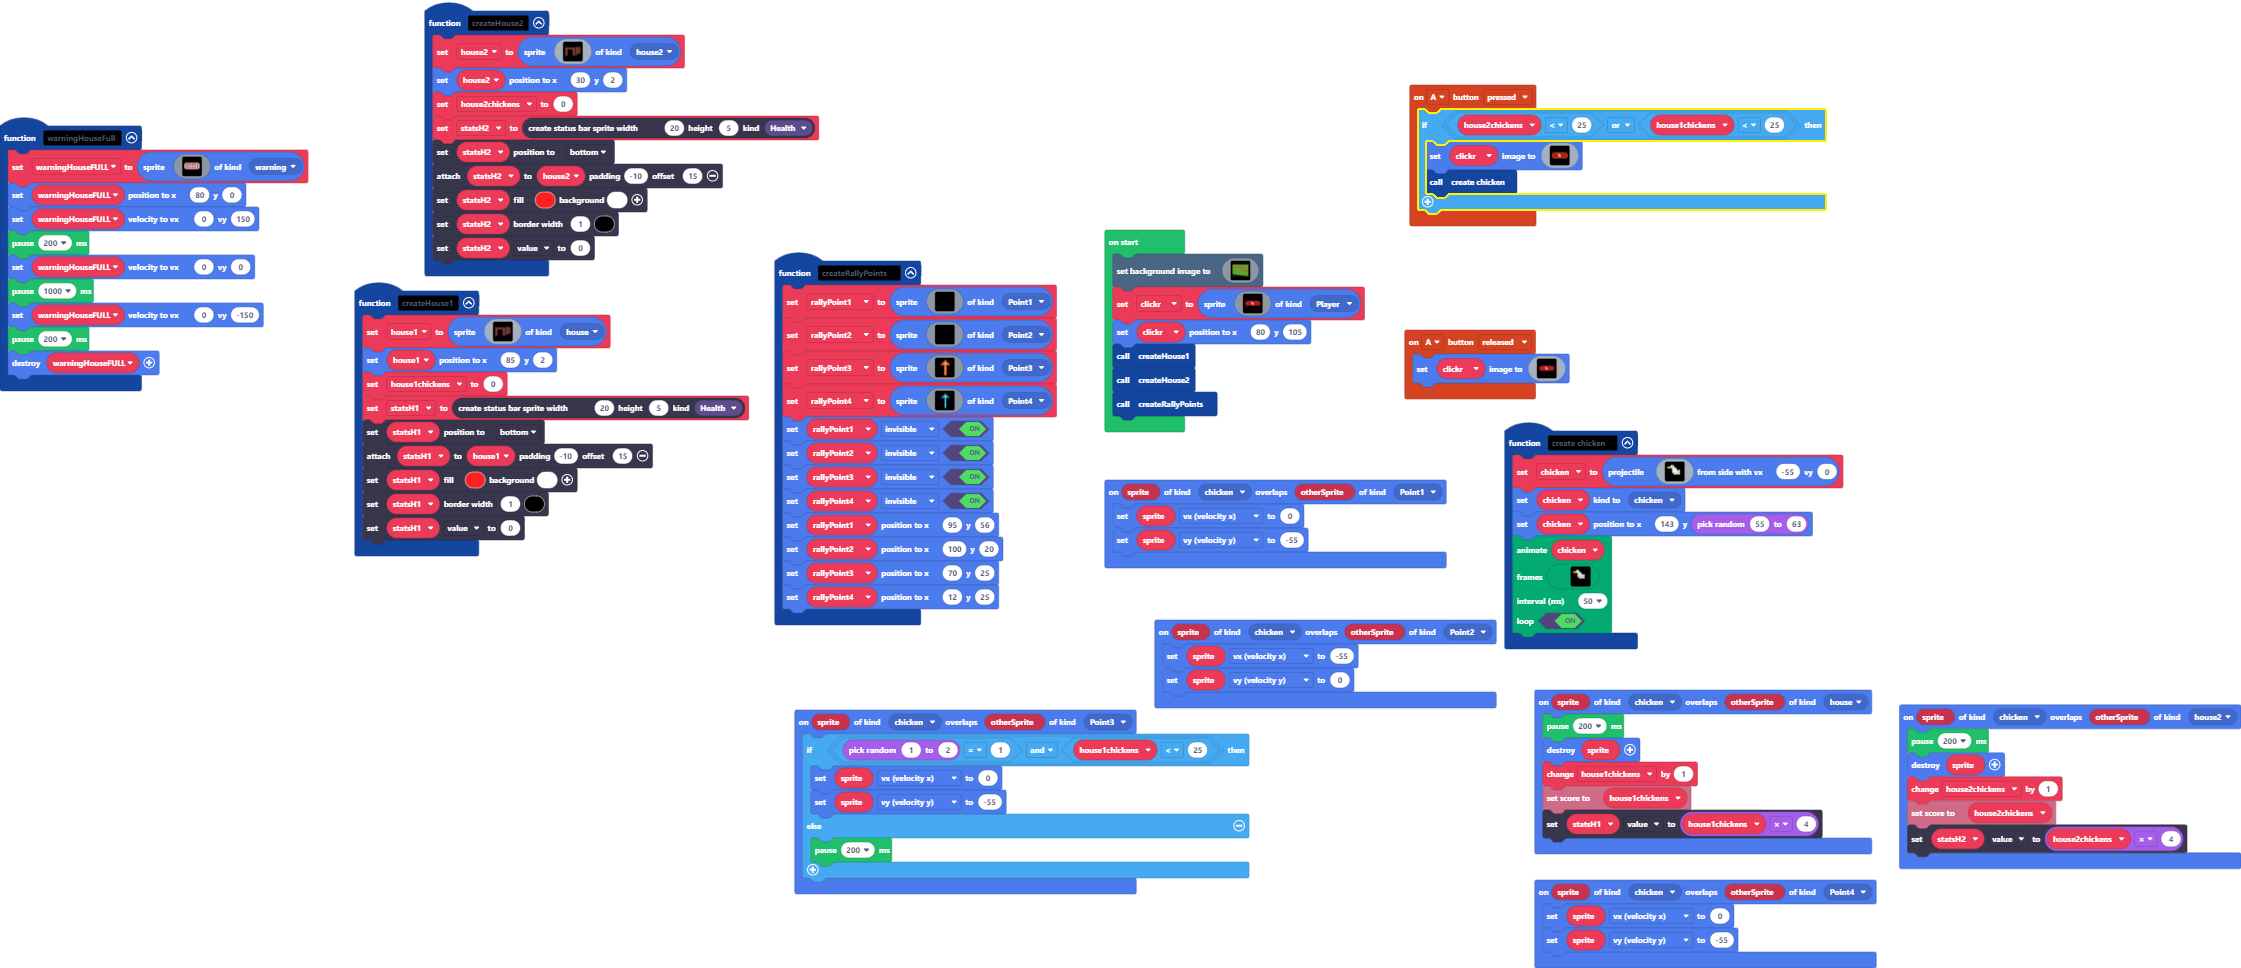
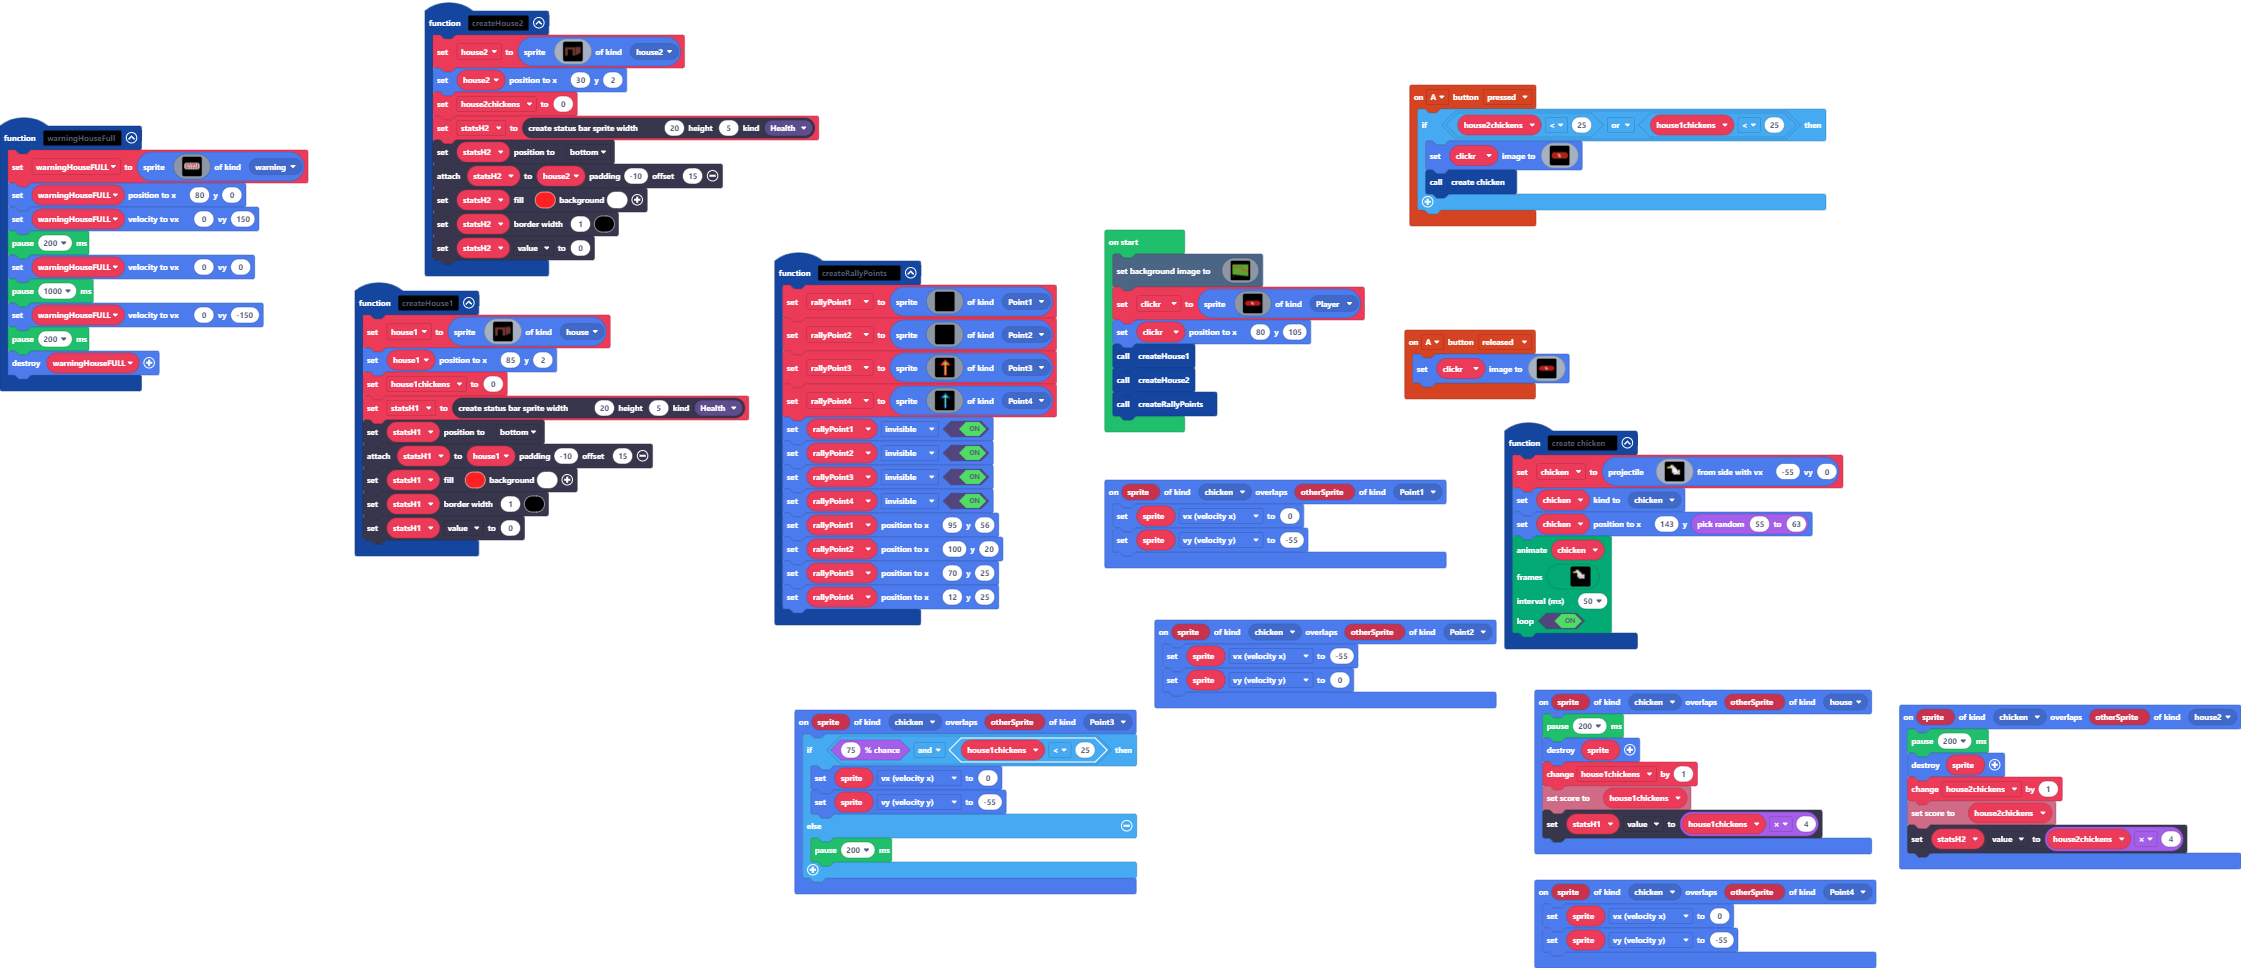
replaced the "pick random" with "%chance"

Changed region(s): [[0.3748, 0.7438, 0.5622, 0.8058], [0.4998, 0.8368, 0.5622, 0.9298], [0.6247, 0.186, 0.6872, 0.2169]]

diff --git a/main.ts b/main.ts
@@ -356,7 +356,7 @@ sprites.onOverlap(SpriteKind.chicken, SpriteKind.Point2, function (sprite, other
     sprite.vy = 0
 })
 sprites.onOverlap(SpriteKind.chicken, SpriteKind.Point3, function (sprite, otherSprite) {
-    if (randint(1, 2) == 1 && house1chickens < 25) {
+    if (Math.percentChance(75) && house1chickens < 25) {
         sprite.vx = 0
         sprite.vy = -55
     } else {
